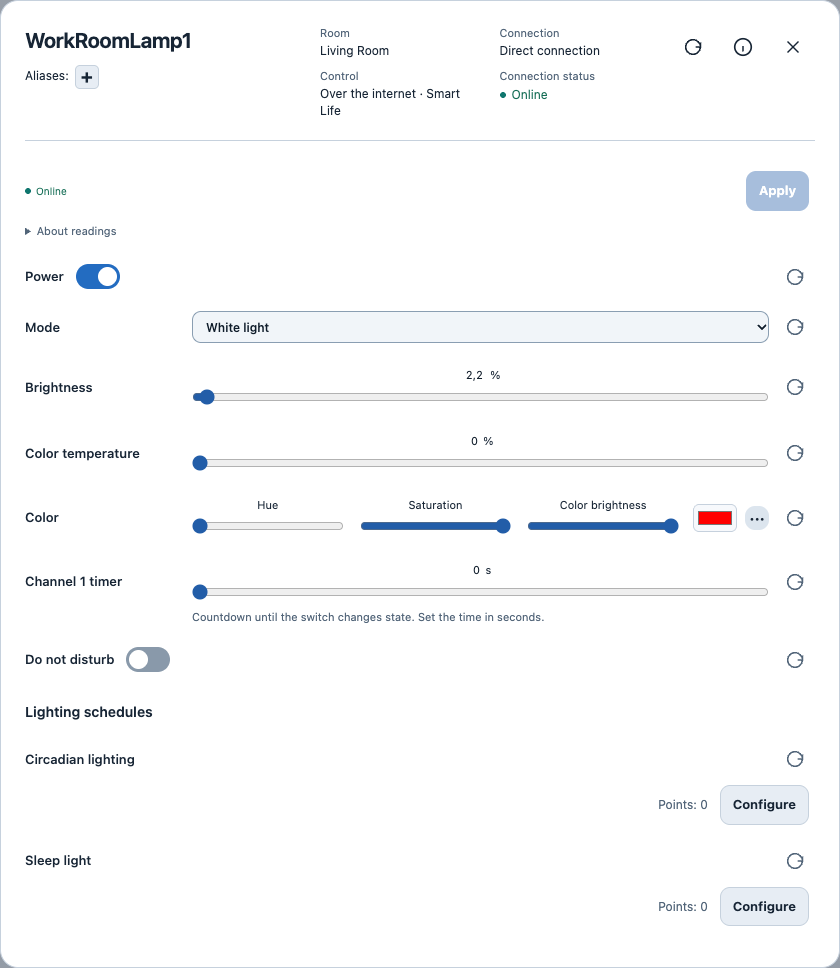
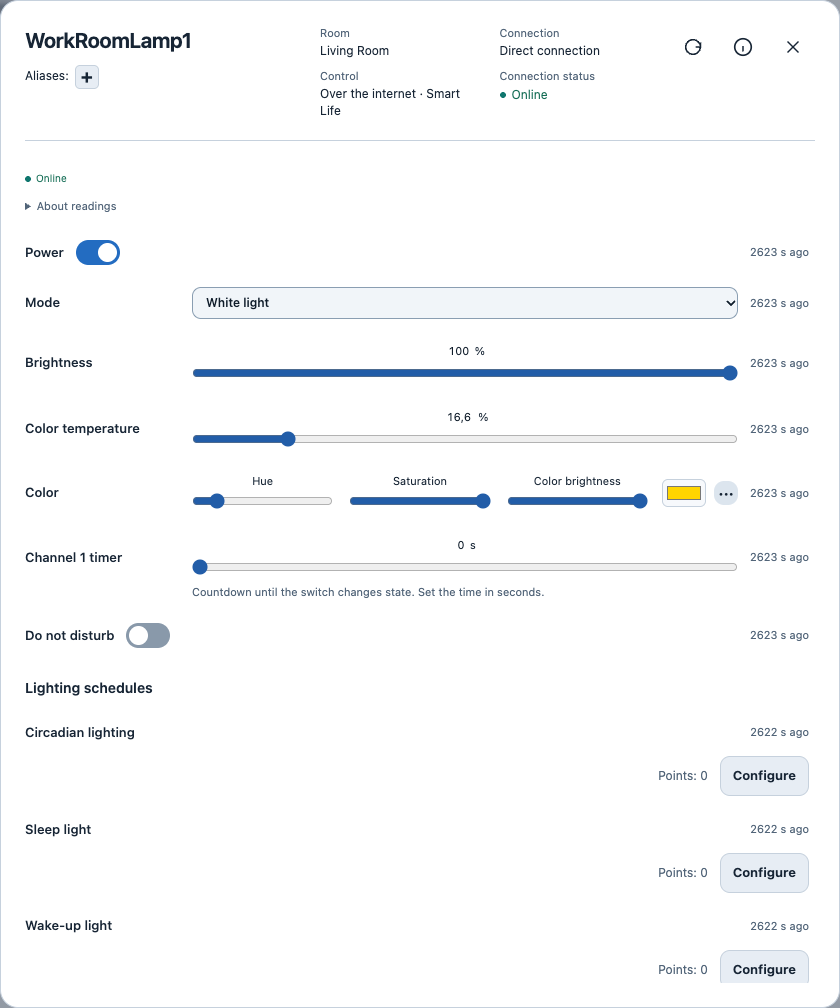
docs: refresh dashboard and device screenshots

diff --git a/docs/screenshots/README.md b/docs/screenshots/README.md
@@ -2,29 +2,31 @@
 
 [Project README](../../README.md) · [Localization examples](../../README.md#localization-examples)
 
-Captured on **4 November 2026**, using the production frontend corresponding to revision `7f8cb0a` and real data from the deployed service. A separate, temporary localhost preview proxied read requests to that service. Device commands and configuration writes were blocked by the preview proxy. The browser used a dummy preview key; the real service key stayed in the proxy process.
+Captured on **6 November 2026** from frontend revision `966c664` using real device data. A separate, temporary localhost preview proxied read requests to that service. The preview proxy allowed passive reads and blocked device commands, configuration writes, and background watch requests. The browser used a dummy preview key; the real service key stayed in the proxy process.
 
-English device examples are followed by actual Polish and Belarusian interface captures. Device names, aliases, room assignments, readings, and connection states remain as returned by the app. Public overview headings describe device types; configured room/device names are visible only as part of the app screenshots. Some readings are older cached reports; the images illustrate the interface rather than current measurements or guaranteed device reachability.
+The gallery includes Large and Small phone layouts, English device details, and Polish and Belarusian interface captures. Device names, aliases, room assignments, readings, and connection states remain as returned by the app. Public overview headings describe device types; configured room/device names are visible only as part of the app screenshots. Some readings are older cached reports; the images illustrate the interface rather than current measurements or guaranteed device reachability.
 
 | File | View | Language | Theme | Size |
 | --- | --- | --- | --- | --- |
-| [device-overview-day.png](device-overview-day.png) | Main cards with bulbs and a two-channel switch | English | Day | 1440 × 1100 |
-| [bulb-controls-day.png](bulb-controls-day.png) | Power, brightness, white temperature, color, and schedules | English | Day | 840 × 968 |
-| [bulb-color-day.png](bulb-color-day.png) | Precise hue, saturation, and color brightness expanded | English | Day | 840 × 968 |
-| [two-channel-switch-dark.png](two-channel-switch-dark.png) | Channels, existing aliases, timer, and additional settings | English | Dark | 840 × 968 |
-| [room-overview-day.png](room-overview-day.png) | Room filter with temperature/humidity and motion cards | English | Day | 1440 × 1000 |
-| [temperature-humidity-sensor-day.png](temperature-humidity-sensor-day.png) | Humidity, temperature, battery, and gateway context | English | Day | 840 × 606 |
-| [motion-sensor-dark.png](motion-sensor-dark.png) | Motion status and activity log filtered to motion events | English | Dark | 840 × 858 |
-| [bulb-color-polish-day.png](bulb-color-polish-day.png) | Localized bulb controls and precise color settings | Polish | Day | 840 × 968 |
-| [motion-sensor-belarusian-dark.png](motion-sensor-belarusian-dark.png) | Localized motion state, activity filter, dates, and connection context | Belarusian | Dark | 840 × 840 |
+| [device-overview-day.png](device-overview-day.png) | Main cards with bulbs and a two-channel switch | English | Day | 1180 × 662 |
+| [mobile-dashboard-large-day.png](mobile-dashboard-large-day.png) | Phone dashboard with Large cards | English | Day | 390 × 960 |
+| [mobile-dashboard-small-day.png](mobile-dashboard-small-day.png) | The same phone dashboard with two Small cards per row | English | Day | 390 × 960 |
+| [bulb-controls-day.png](bulb-controls-day.png) | Power, brightness, white temperature, color, and schedules | English | Day | 840 × 1008 |
+| [bulb-color-day.png](bulb-color-day.png) | Precise hue, saturation, and color brightness expanded | English | Day | 840 × 1008 |
+| [two-channel-switch-dark.png](two-channel-switch-dark.png) | Channels, existing aliases, timer, and additional settings | English | Dark | 840 × 1008 |
+| [room-overview-day.png](room-overview-day.png) | Room filter with temperature/humidity and motion cards | English | Day | 1180 × 596 |
+| [temperature-humidity-sensor-day.png](temperature-humidity-sensor-day.png) | Humidity, temperature, battery, and gateway context | English | Day | 840 × 658 |
+| [motion-sensor-dark.png](motion-sensor-dark.png) | Motion status and activity log filtered to motion events | English | Dark | 840 × 904 |
+| [bulb-color-polish-day.png](bulb-color-polish-day.png) | Localized bulb controls and precise color settings | Polish | Day | 840 × 1008 |
+| [motion-sensor-belarusian-dark.png](motion-sensor-belarusian-dark.png) | Localized motion state, activity filter, dates, and connection context | Belarusian | Dark | 840 × 908 |
 
 ## Refreshing the screenshots
 
 1. Use a separate browser session so the user's language, theme, navigation, and connection settings remain unchanged. Prefer a read-only preview/proxy when connected to real hardware.
-2. Select the language and theme listed above. Use a 1440px-wide desktop viewport. The device overview uses a height of 1100px; other captures use 1000px.
+2. Select the language and theme listed above. Use a 1440-pixel desktop viewport and a 390 × 960 CSS pixel phone viewport. Capture the app frame on desktop and the viewport on the phone. For the phone comparison, choose Large and Small in **Menu → Card size** with the same room selected.
 3. Filter the main screen to the relevant lights or sensor room. Use the installation's actual names without renaming records. Capture the viewport after device cards have loaded.
 4. For detailed screenshots, open the appropriate bulb, two-channel switch, temperature/humidity sensor, or motion sensor. Capture the dialog element so browser chrome and device IDs in the address bar are excluded. Expand precise color settings without changing a value. For the switch, expand Channel 1's timer and Additional settings. For motion, select the Motion activity filter in the chosen language.
-5. For localization examples, change the actual header language selector to Polish or Belarusian. Check the document locale (`pl` or `be`) and translated labels before capture. Do not translate image pixels or replace device data.
+5. For localization examples, choose Polish or Belarusian in **Menu → Language**. Check the document locale (`pl` or `be`) and translated labels before capture. Do not translate image pixels or replace device data.
 6. Leave all device values unchanged. Keep connection settings, account pages, network addresses, device IDs, local keys, API keys, QR login codes, and camera footage out of the images. Review every image visually before committing it.
 7. Save PNGs under the existing filenames, update the capture date/revision and dimensions here, and check the README image links. Keep browser profiles, raw API responses, and authentication state files outside the repository.
 

diff --git a/README.md b/README.md
@@ -4,16 +4,16 @@ A home dashboard and REST API for Tuya devices: control lights, read sensors, vi
 
 Run it on your own server with Docker, or run the Python API and React interface separately. Local Wi-Fi and Zigbee gateway control uses TinyTuya; optional Smart Life and Tuya Developer connections provide cloud access. Each device has one card with an explicit choice of control method when several are available.
 
-**English · Russian · Polish · Belarusian** | **System · Dark · Day themes**
+**English · Russian · Polish · Belarusian** | **System · Dark · Day themes** | **Large · Small dashboard cards**
 
 [Quick start](#quick-start) · [Screenshots](#screenshots) · [Localization examples](#localization-examples) · [Documentation](#documentation) · [API reference](docs/api-reference.md)
 
 ## What you can do
 
-- Control power and individual switch channels directly from device cards. Open details for brightness, white temperature, color, timers, and supported lighting schedules/effects.
+- Control power and individual switch channels directly from device cards. Tap a supported light card for quick brightness and white temperature controls. Open full details for color, timers, and supported lighting schedules and effects.
 - Read temperature, humidity, motion, and battery information; inspect the device activity log and the source and age of readings.
 - Search by name or alias, filter by room/building, edit device and channel aliases inline, and link directly to a device's details.
-- View compatible camera HLS streams, including a small preview on the main card, with privacy and detection controls when the device exposes them.
+- Open compatible camera HLS streams from the dashboard, with privacy and detection controls when the device exposes them.
 - Discover LAN announcements and configure local device connections with separate discovery, verification, and confirmation before saving.
 - Manage buildings, rooms, device types, groups, capabilities, and imports through the REST API.
 
@@ -25,9 +25,17 @@ Real views of connected lights, switches, and sensors in English. Device names, 
 
 ### Device overview
 
-Main cards with power controls, independent switch channels, aliases, room, and connection status — Day theme.
+Large cards in the Day theme show power controls, independent switch channels, aliases, room, and connection status.
 
 ![Device overview with lamp power controls and a two-channel switch](docs/screenshots/device-overview-day.png)
+
+### Phone dashboard
+
+Choose **Menu → Card size** to switch between Large and Small. Small fits two cards per row on a phone, with the same direct access to power controls and device details. The browser remembers your choice.
+
+| Large | Small |
+| --- | --- |
+| ![Phone dashboard with one large card per row](docs/screenshots/mobile-dashboard-large-day.png) | ![Phone dashboard with two small cards per row](docs/screenshots/mobile-dashboard-small-day.png) |
 
 ### Bulb: brightness, white temperature, and schedules
 
@@ -69,7 +77,7 @@ The motion sensor has a dedicated status and activity log, shown here with the M
 
 ## Localization examples
 
-The interface supports English, Russian, Polish, and Belarusian. Change the language in the header; labels, help text, parameter values, and date formatting follow the selection. Device names, aliases, identifiers, and commands retain their original values. The preference is saved independently of the API key and theme.
+The interface supports English, Russian, Polish, and Belarusian. Choose **Menu → Language** to change labels, help text, parameter values, and date formatting. Device names, aliases, identifiers, and commands retain their original values. The preference is saved independently of the API key and theme.
 
 ### Polish: bulb controls
 
